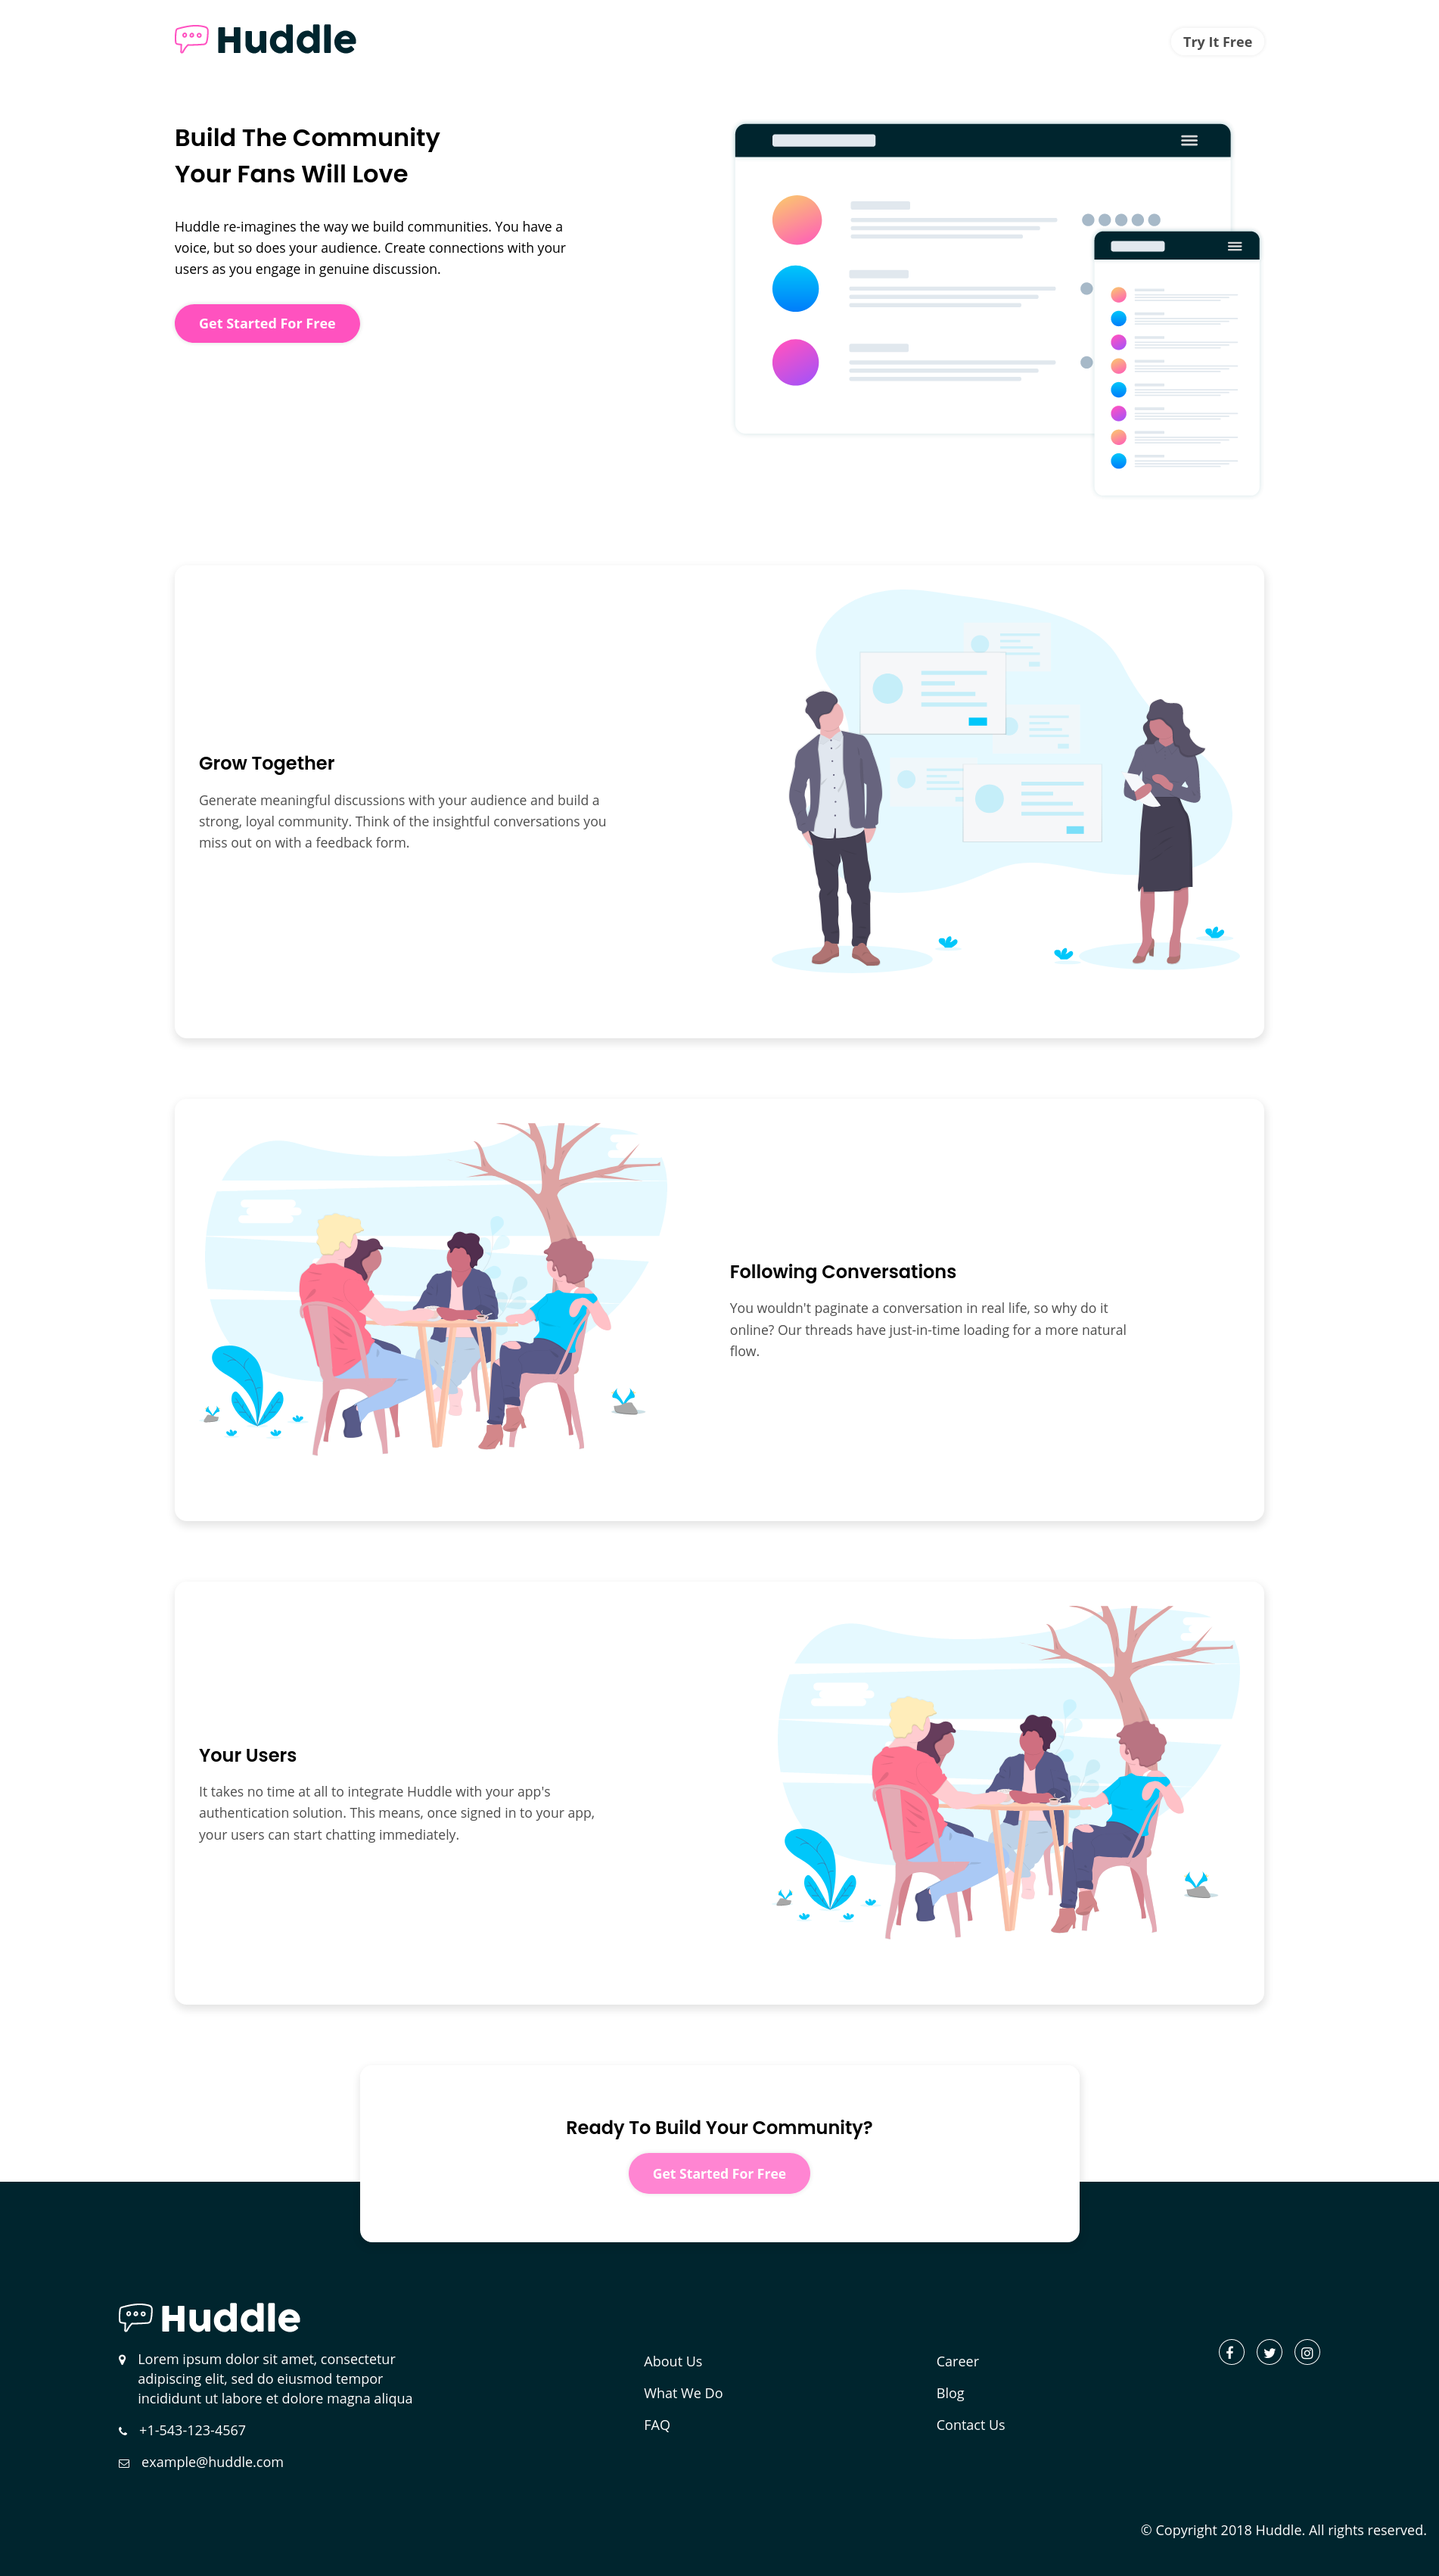
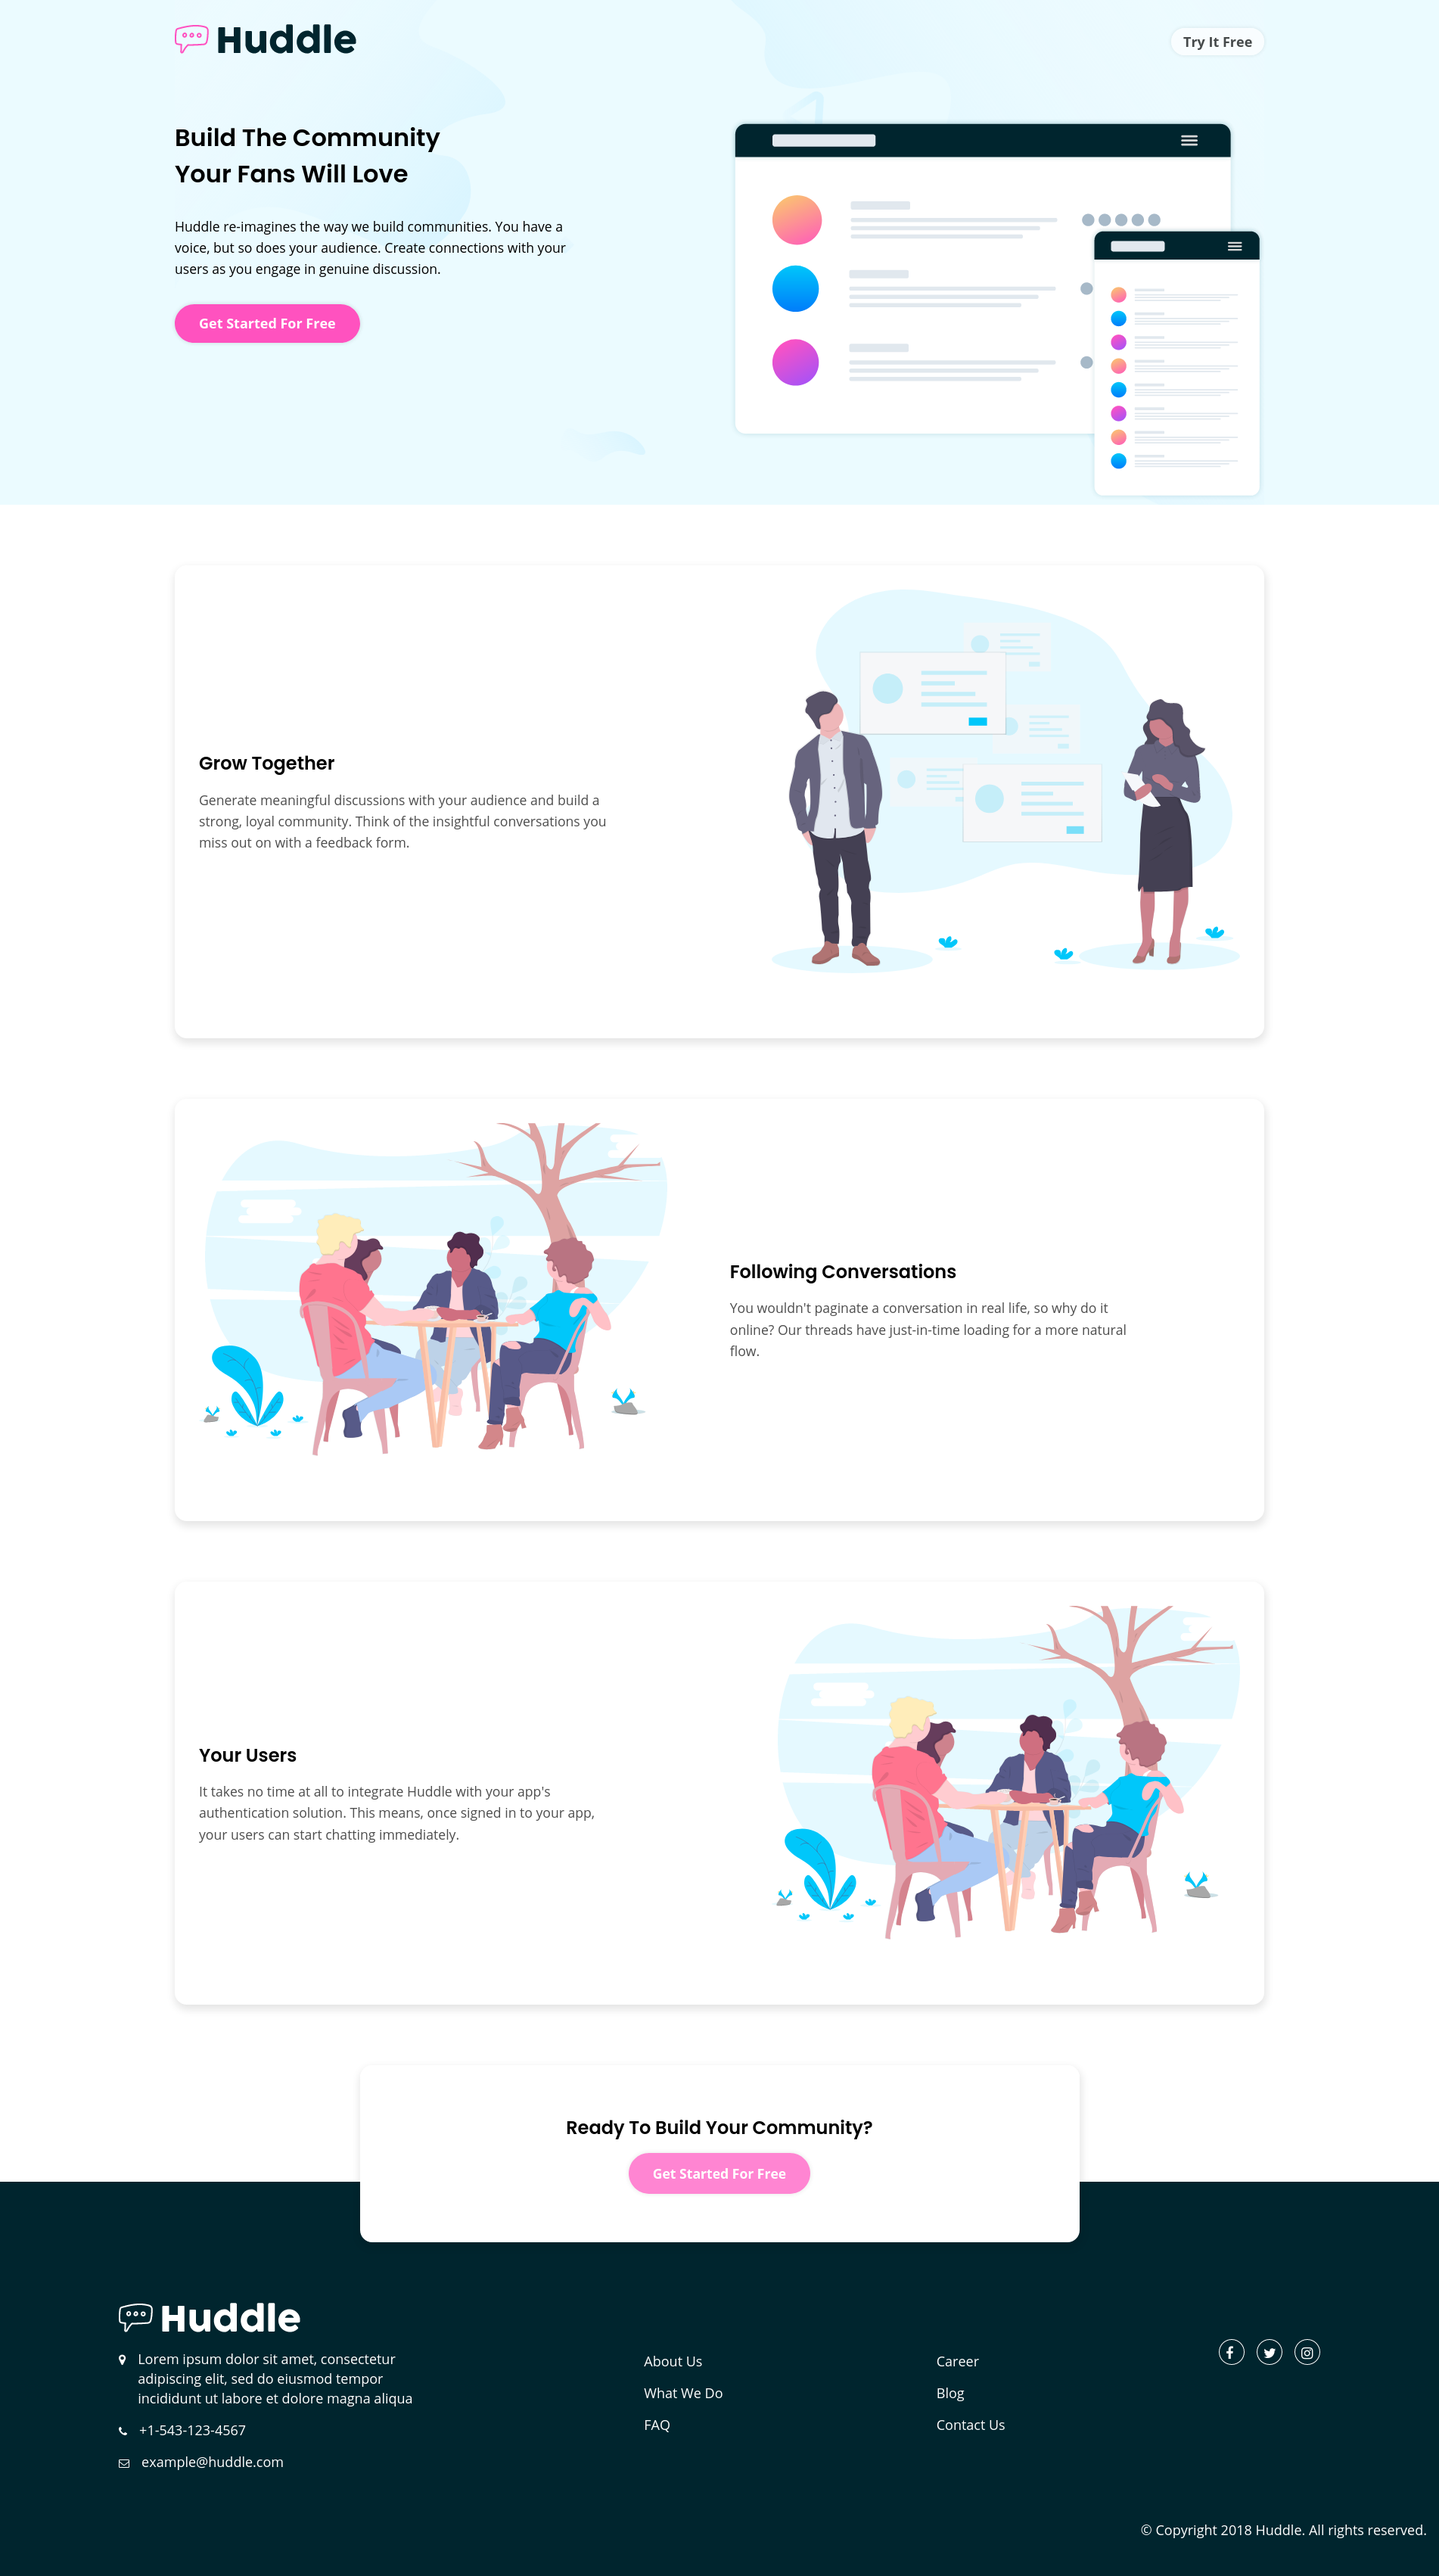
fix top section

diff --git a/index.html b/index.html
@@ -29,30 +29,32 @@
     <script src="https://use.fontawesome.com/4ac2e5dc4b.js"></script>
   </head>
   <body>
-    <header class="header container">
-      <div class="header__logo">
-        <img class="header__img" src="./images/logo.svg" alt="logo" />
-      </div>
-      <nav class="nav">
-        <a href="#" class="nav__button button">Try It Free</a>
-      </nav>
-    </header>
+    <section class="top-section">
+      <header class="header container">
+        <div class="header__logo">
+          <img class="header__img" src="./images/logo.svg" alt="logo" />
+        </div>
+        <nav class="nav">
+          <a href="#" class="nav__button button">Try It Free</a>
+        </nav>
+      </header>
 
-    <section class="hero container">
-      <div class="hero__content">
-        <h3 class="title hero__title">
-          Build The Community Your Fans Will Love
-        </h3>
-        <p class="hero__para">
-          Huddle re-imagines the way we build communities. You have a voice, but
-          so does your audience. Create connections with your users as you
-          engage in genuine discussion.
-        </p>
-        <a href="#" class="hero__button button">Get Started For Free</a>
-      </div>
-      <div class="hero__img">
-        <img src="./images/illustration-mockups.svg" alt="mockups" />
-      </div>
+      <section class="hero container">
+        <div class="hero__content">
+          <h3 class="title hero__title">
+            Build The Community Your Fans Will Love
+          </h3>
+          <p class="hero__para">
+            Huddle re-imagines the way we build communities. You have a voice,
+            but so does your audience. Create connections with your users as you
+            engage in genuine discussion.
+          </p>
+          <a href="#" class="hero__button button">Get Started For Free</a>
+        </div>
+        <div class="hero__img">
+          <img src="./images/illustration-mockups.svg" alt="mockups" />
+        </div>
+      </section>
     </section>
 
     <section class="first-card card container">

diff --git a/css/index.css b/css/index.css
@@ -193,17 +193,16 @@ img {
       color: white; }
     .footer__links-1 a:after, .footer__links-2 a:after {
       content: "";
+      height: 2px;
+      background-color: white;
       position: absolute;
+      top: 100%;
       left: 100%;
       right: 100%;
-      transform-origin: center;
       transition: all 300ms ease-in-out; }
     .footer__links-1 a:hover::after, .footer__links-2 a:hover::after {
-      top: 100%;
       left: 0;
-      right: 0;
-      height: 2px;
-      background-color: white; }
+      right: 0; }
   .footer__social {
     margin: 3rem 0 1rem;
     display: flex;
@@ -268,7 +267,18 @@ img {
   justify-content: space-between;
   align-items: center;
   flex-wrap: wrap;
-  margin-top: 2rem; }
+  padding-top: 2rem; }
 
 .nav__button {
   padding: 0.3rem 1rem; }
+
+.top-section {
+  background: no-repeat url(../images/bg-hero-mobile.svg);
+  background-position: center;
+  background-color: #ebfbff; }
+
+@media (min-width: 450px) {
+  .top-section {
+    background: no-repeat url(../images/bg-hero-desktop.svg);
+    background-position: center;
+    background-color: #ebfbff; } }

diff --git a/css/_header.scss b/css/_header.scss
@@ -4,7 +4,7 @@
   align-items: center;
   flex-wrap: wrap;
 
-  margin-top: 2rem;
+  padding-top: 2rem;
 }
 
 .nav {
@@ -12,3 +12,18 @@
     padding: 0.3rem 1rem;
   }
 }
+
+.top-section {
+  background: no-repeat url(../images/bg-hero-mobile.svg);
+  background-position: center;
+  background-color: $very-pale-cyan;
+}
+
+@media (min-width: 450px) {
+  .top-section {
+    background: no-repeat url(../images/bg-hero-desktop.svg);
+    background-position: center;
+    background-color: $very-pale-cyan;
+  }
+}
+

diff --git a/readme.md b/readme.md
@@ -23,7 +23,7 @@ Frontend Mentor challenges help you improve your coding skills by building reali
 ### Links
 
 - Solution URL: [Add solution URL here](https://your-solution-url.com)
-- Live Site URL: [Add live site URL here](https://your-live-site-url.com)
+- Live Site URL: [Live Site](https://huddle-landing-page-with-alternating-feature-blocks-one.vercel.app/)
 
 ## My process
 
